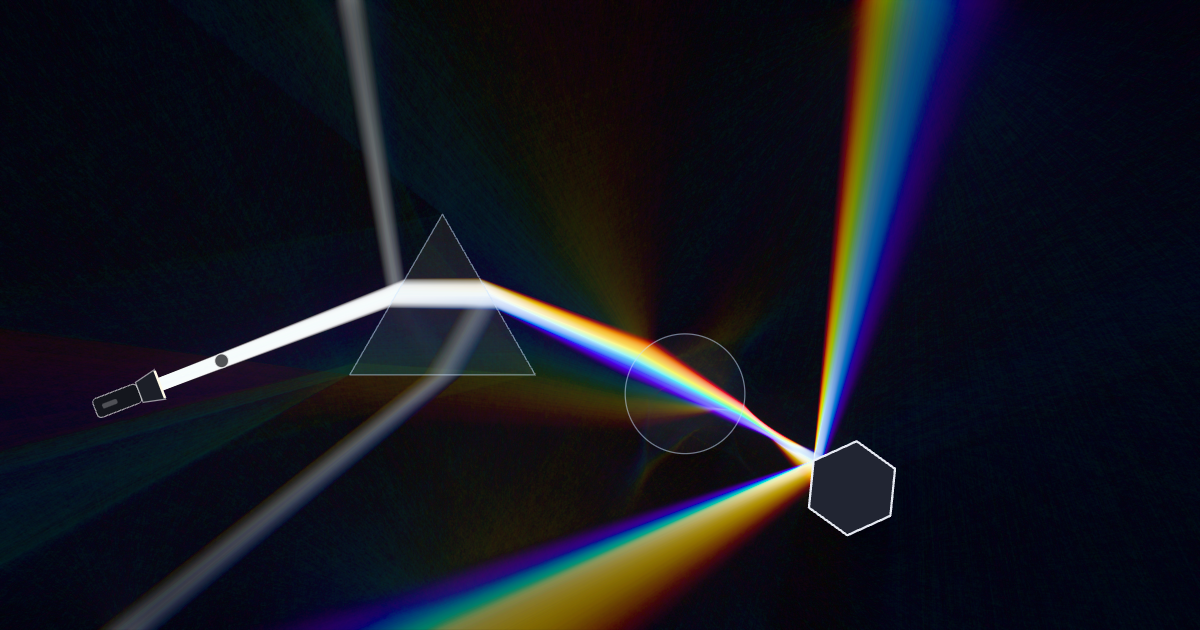
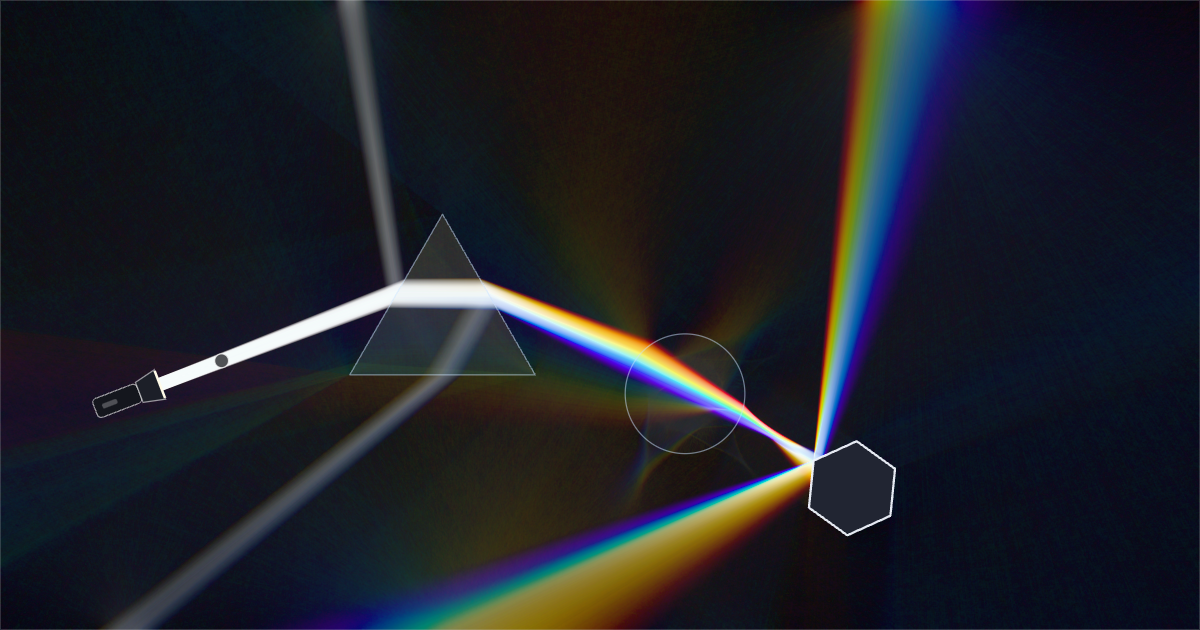
Day 004: the window's edges are diffuse walls that fill the room with bounce light
Walls default to albedo 0.7 (grey Lambertian, cosine-weighted bounce), exposure 0.85,
haze 0.05, with a faint edge drawn so the walls read. When the window flips between
landscape and portrait the scene turns with it and stays inside the walls.

diff --git a/src/days/004/optics.test.ts b/src/days/004/optics.test.ts
@@ -4,10 +4,12 @@ import {
   LAMBDA_MIN,
   cauchy,
   compile,
+  defaultScene,
   fresnel,
   intersect,
   makeShape,
   polygon,
+  refit,
   spectralRgb,
   tracePath,
   type Optics,
@@ -121,10 +123,57 @@ describe('tracing', () => {
     expect(exitAngle(650)).toBeGreaterThan(0)
   })
 
+  it('bounces off the view edges diffusely, with a cosine-weighted lobe', () => {
+    const s = { flashlight: { x: 0, y: 0 }, shapes: [] }
+    const walls = { ...optics, walls: 1, bounces: 16, cone: 360 }
+    let rng = 7
+    const rand = () => ((rng = (rng * 16807) % 2147483647) - 1) / 2147483646
+    let cosSum = 0
+    let n = 0
+    for (let p = 0; p < 400; p++) {
+      const segs = tracePath(compile([]), view, s, walls, 550, rand)
+      expect(segs).toHaveLength(17)
+      for (let i = 0; i < segs.length; i++) {
+        const g = segs[i]
+        expect(Math.abs(g.x1)).toBeLessThanOrEqual(view.hw + 1e-6)
+        expect(Math.abs(g.y1)).toBeLessThanOrEqual(view.hh + 1e-6)
+        const onWall = Math.abs(Math.abs(g.x1) - view.hw) < 1e-6 || Math.abs(Math.abs(g.y1) - view.hh) < 1e-6
+        expect(onWall).toBe(true)
+        if (i + 1 < segs.length) {
+          const next = segs[i + 1]
+          const len = Math.hypot(next.x1 - next.x0, next.y1 - next.y0)
+          const normal = Math.abs(Math.abs(g.x1) - view.hw) < 1e-6 ? [-Math.sign(g.x1), 0] : [0, -Math.sign(g.y1)]
+          cosSum += ((next.x1 - next.x0) * normal[0] + (next.y1 - next.y0) * normal[1]) / len
+          n++
+        }
+      }
+    }
+    // A 2D Lambertian lobe (pdf cos θ / 2) has a mean cosine of π/4.
+    expect(cosSum / n).toBeCloseTo(Math.PI / 4, 1)
+  })
+
   it('ends a path at an absorbing wall', () => {
     const s = { flashlight: { x: 0, y: 0 }, shapes: [] }
     const segs = tracePath(compile([]), view, s, optics, 550, () => 0.5)
     expect(segs).toHaveLength(1)
     expect(segs[0].x1).toBeCloseTo(2)
+  })
+})
+
+describe('refit', () => {
+  it('turns the layout a quarter turn into portrait and keeps everything inside the walls', () => {
+    const land = { hw: 1.78, hh: 1 }
+    const port = { hw: 1, hh: 2.16 }
+    const { scene, rotation } = defaultScene(land.hw)
+    const out = refit(scene, rotation, land, port)
+    expect(out.rotation).toBeCloseTo(rotation - 90)
+    for (const p of [out.scene.flashlight, ...out.scene.shapes]) {
+      expect(Math.abs(p.x)).toBeLessThan(port.hw)
+      expect(Math.abs(p.y)).toBeLessThan(port.hh)
+    }
+    const back = refit(out.scene, out.rotation, port, land)
+    expect(back.rotation).toBeCloseTo(rotation)
+    expect(back.scene.shapes[0].angle).toBeCloseTo(scene.shapes[0].angle)
+    expect(refit(scene, rotation, land, { hw: 1.6, hh: 1 }).rotation).toBe(rotation)
   })
 })

diff --git a/src/days/004/Light.tsx b/src/days/004/Light.tsx
@@ -9,6 +9,7 @@ import {
   defaultScene,
   makeShape,
   polygon,
+  refit,
   viewFor,
   type Material,
   type Optics,
@@ -40,13 +41,14 @@ const dialConfig = {
   },
   light: {
     bounces: [8, 1, MAX_BOUNCES, 1],
-    exposure: [1, 0.1, 8, 0.05],
+    exposure: [0.85, 0.1, 8, 0.05],
     // Thousands of light paths traced per frame.
     'samples per frame': [compact ? 8 : 24, 1, MAX_PATHS / 1024, 1],
     // Scattering in the air: beams fade and glow as they go.
-    haze: [0.08, 0, 1.5, 0.01],
-    // How much light the walls bounce back (diffusely).
-    walls: [0.3, 0, 0.9, 0.01],
+    haze: [0.05, 0, 1.5, 0.01],
+    // The window's edges are the room's walls: grey Lambertian reflectors bouncing back this
+    // fraction of the light, whatever its colour.
+    walls: [0.7, 0, 0.95, 0.01],
   },
   'reset scene': { type: 'action' },
 } satisfies DialConfig
@@ -108,6 +110,19 @@ export function Light() {
     ro.observe(el)
     return () => ro.disconnect()
   }, [])
+
+  // The walls are the window's edges: when it changes shape, bring the scene along.
+  const lastView = useRef<typeof view | null>(null)
+  useEffect(() => {
+    if (size.width <= 1 || size.height <= 1) return
+    const from = lastView.current ?? viewFor(initialAspect)
+    lastView.current = view
+    if (from.hw === view.hw && from.hh === view.hh) return
+    const { scene, optics } = latest.current
+    const next = refit(scene, optics.rotation, from, view)
+    setScene(next.scene)
+    if (next.rotation !== optics.rotation) dial.setValue('flashlight.rotation', next.rotation)
+  }, [view.hw, view.hh, size.width, size.height, dial])
 
   useEffect(() => {
     let tracer: Tracer | null = null
@@ -359,6 +374,17 @@ export function Light() {
           onPointerCancel={onPointerUp}
           aria-label="Optical bench: drag the flashlight and shapes"
         >
+          <rect
+            x={-view.hw}
+            y={-view.hh}
+            width={2 * view.hw}
+            height={2 * view.hh}
+            fill="none"
+            stroke="rgba(255,255,255,0.16)"
+            strokeWidth={2}
+            vectorEffect="non-scaling-stroke"
+            pointerEvents="none"
+          />
           {scene.shapes.map((s) => (
             <ShapeView key={s.id} shape={s} selected={s.id === selected} />
           ))}

diff --git a/src/days/004/optics.ts b/src/days/004/optics.ts
@@ -305,6 +305,38 @@ export function tracePath(
   return out
 }
 
+/** How far inside the walls `refit` keeps the flashlight and shape centres. */
+const MARGIN = 0.15
+
+/**
+ * Keeps a scene inside the room when the window changes shape. Flipping between landscape and
+ * portrait turns the whole layout a quarter turn (as the default layout does), then positions
+ * shrink toward the centre if they no longer fit and are clamped inside the walls.
+ */
+export function refit(scene: Scene, rotation: number, from: View, to: View): { scene: Scene; rotation: number } {
+  const toPortrait = to.hw < to.hh
+  const flip = from.hw < from.hh !== toPortrait
+  const turn = (x: number, y: number): [number, number] => (!flip ? [x, y] : toPortrait ? [y, -x] : [-y, x])
+  const spin = flip ? (toPortrait ? -1 : 1) : 0
+  const points = [scene.flashlight, ...scene.shapes].map((p) => turn(p.x, p.y))
+  const reach = Math.max(
+    1,
+    ...points.map(([x, y]) => Math.max(Math.abs(x) / (to.hw - MARGIN), Math.abs(y) / (to.hh - MARGIN))),
+  )
+  const place = (x: number, y: number) => {
+    const [tx, ty] = turn(x, y)
+    const clamp = (v: number, h: number) => Math.max(-(h - MARGIN), Math.min(h - MARGIN, v / reach))
+    return { x: clamp(tx, to.hw), y: clamp(ty, to.hh) }
+  }
+  return {
+    scene: {
+      flashlight: place(scene.flashlight.x, scene.flashlight.y),
+      shapes: scene.shapes.map((s) => ({ ...s, ...place(s.x, s.y), angle: s.angle + (spin * Math.PI) / 2 })),
+    },
+    rotation: ((((rotation + spin * 90 + 180) % 360) + 360) % 360) - 180,
+  }
+}
+
 let nextId = 1
 export const makeShape = (s: Omit<Shape, 'id'>): Shape => ({ ...s, id: nextId++ })
 

diff --git a/src/days/004/cpu.ts b/src/days/004/cpu.ts
@@ -96,7 +96,7 @@ export class CpuTracer implements Tracer {
     this.raf = requestAnimationFrame(this.frame)
     const { scene, optics, compiled: c, width: W, height: H, acc } = this
     if (!scene || !optics || !c || this.paused) return
-    const view = viewFor(W / H)
+    const view = viewFor(this.container.clientWidth / Math.max(1, this.container.clientHeight))
     const sx = W / (2 * view.hw)
     const sy = H / (2 * view.hh)
     const until = performance.now() + BUDGET
